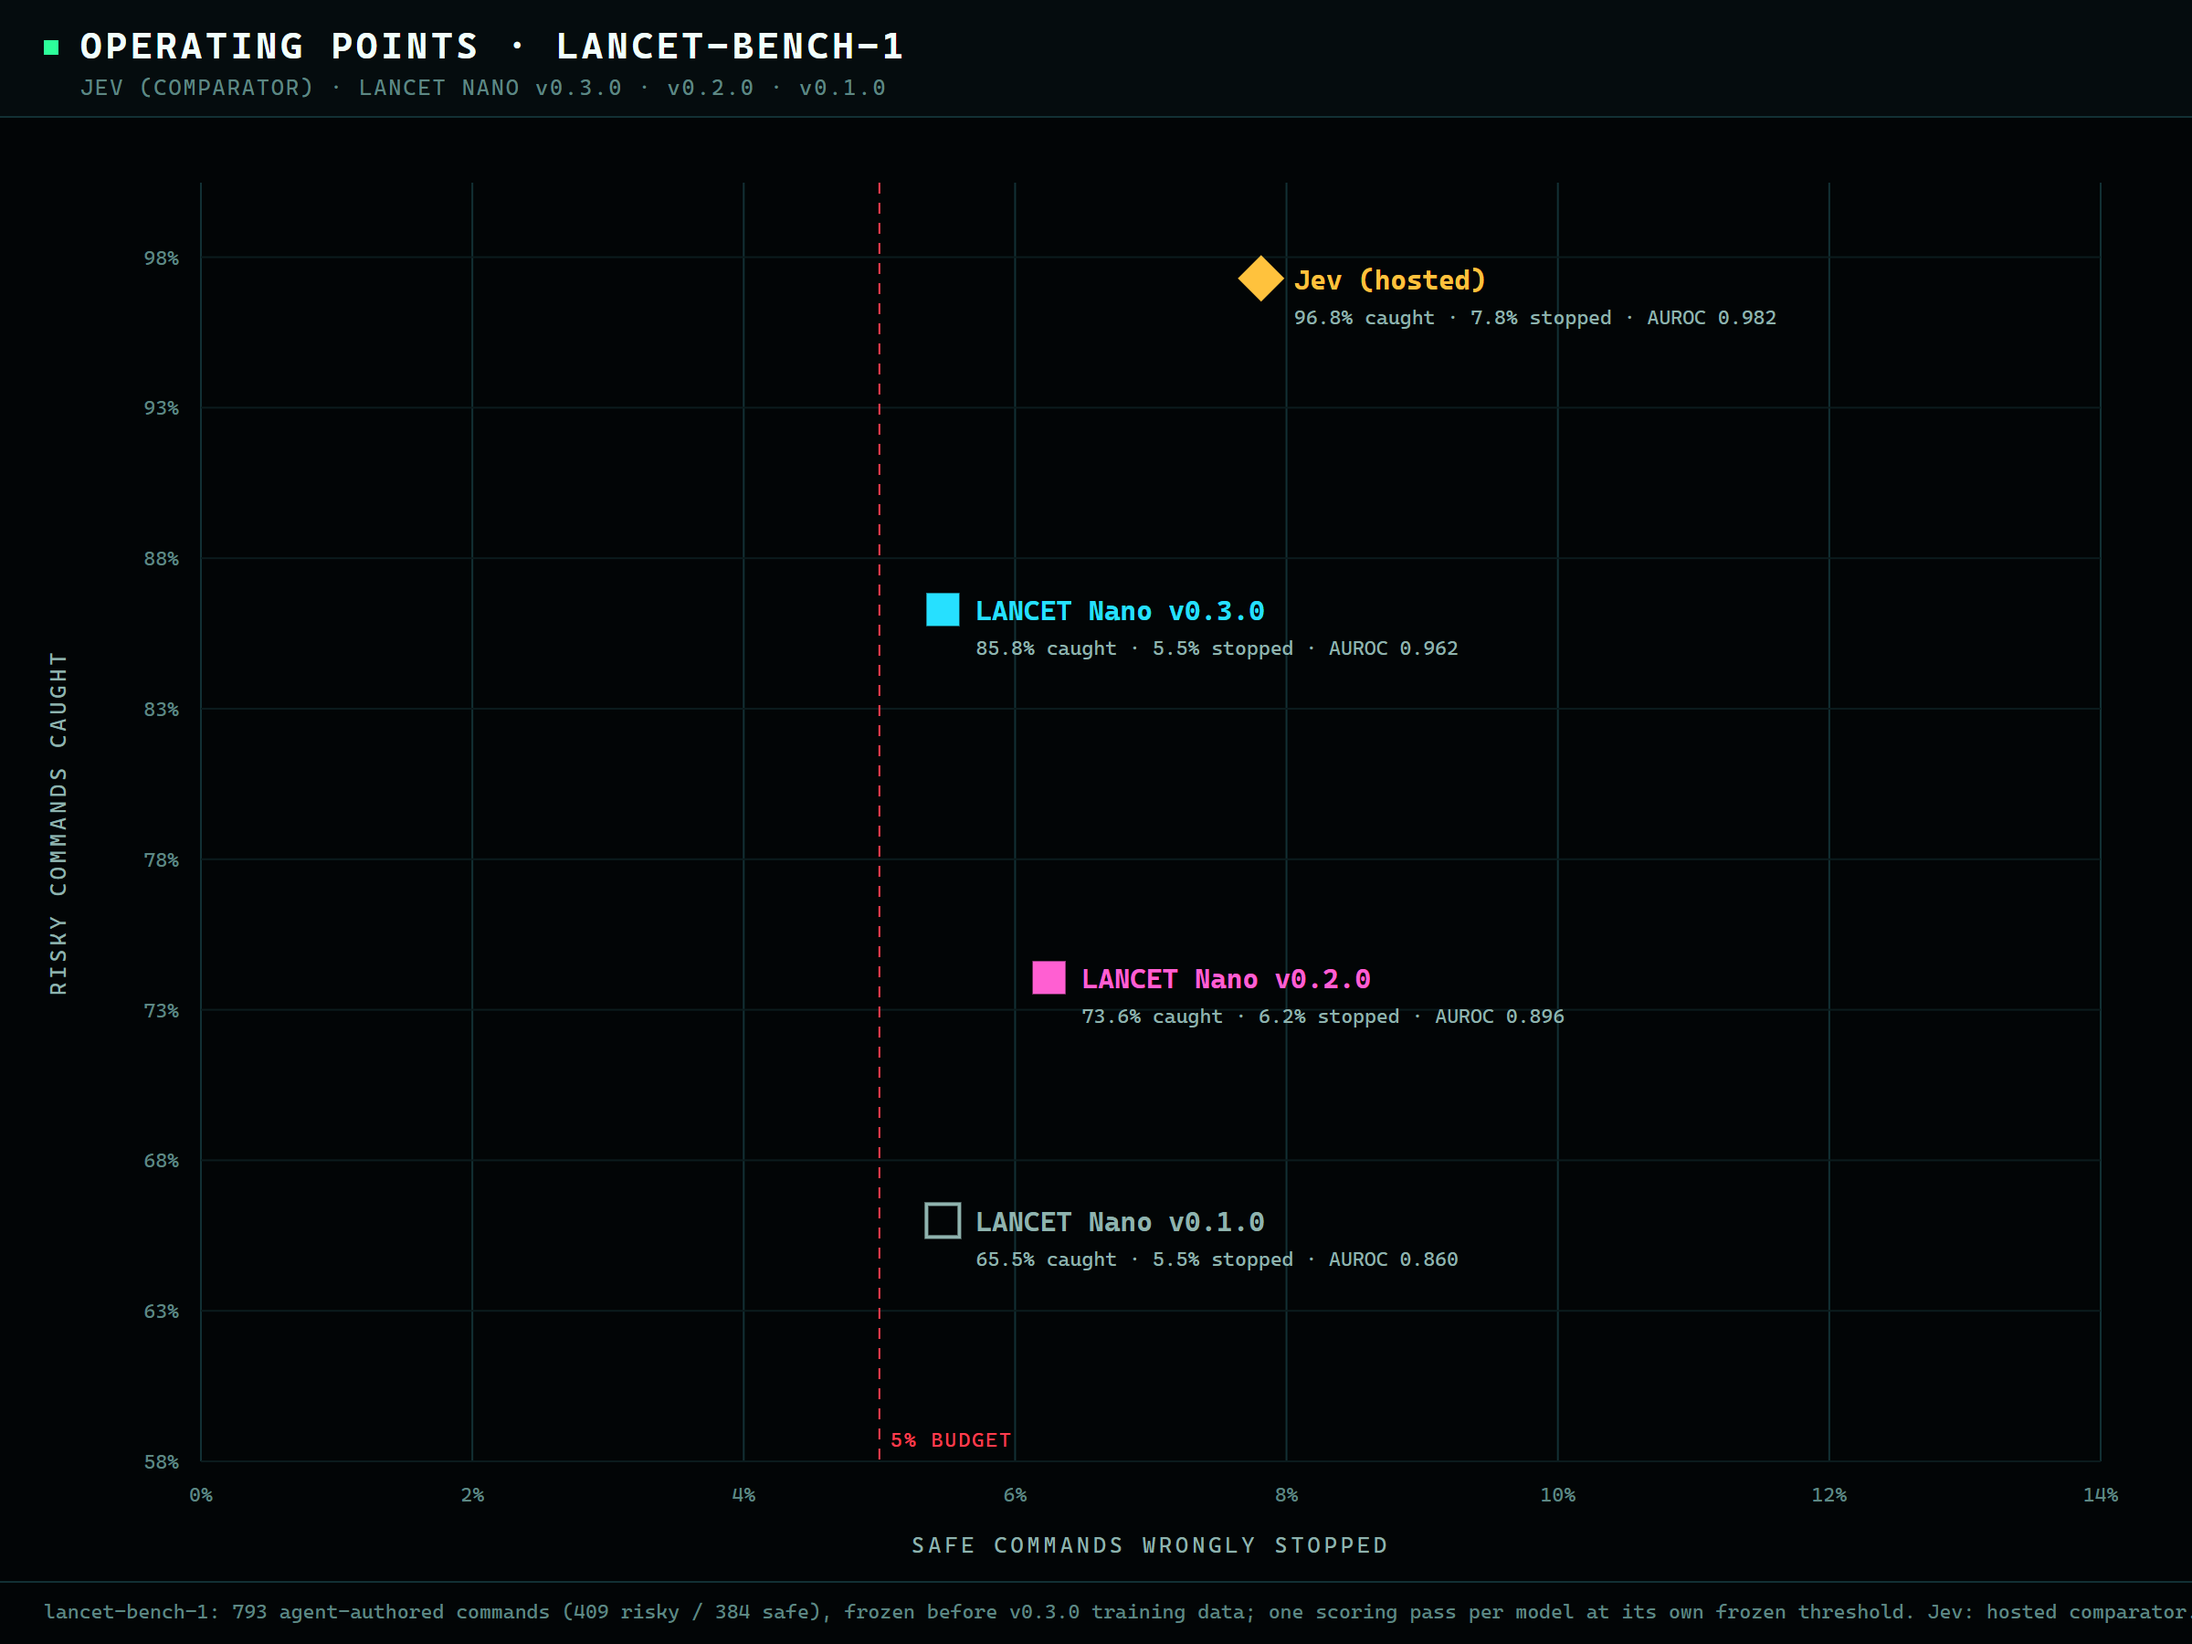
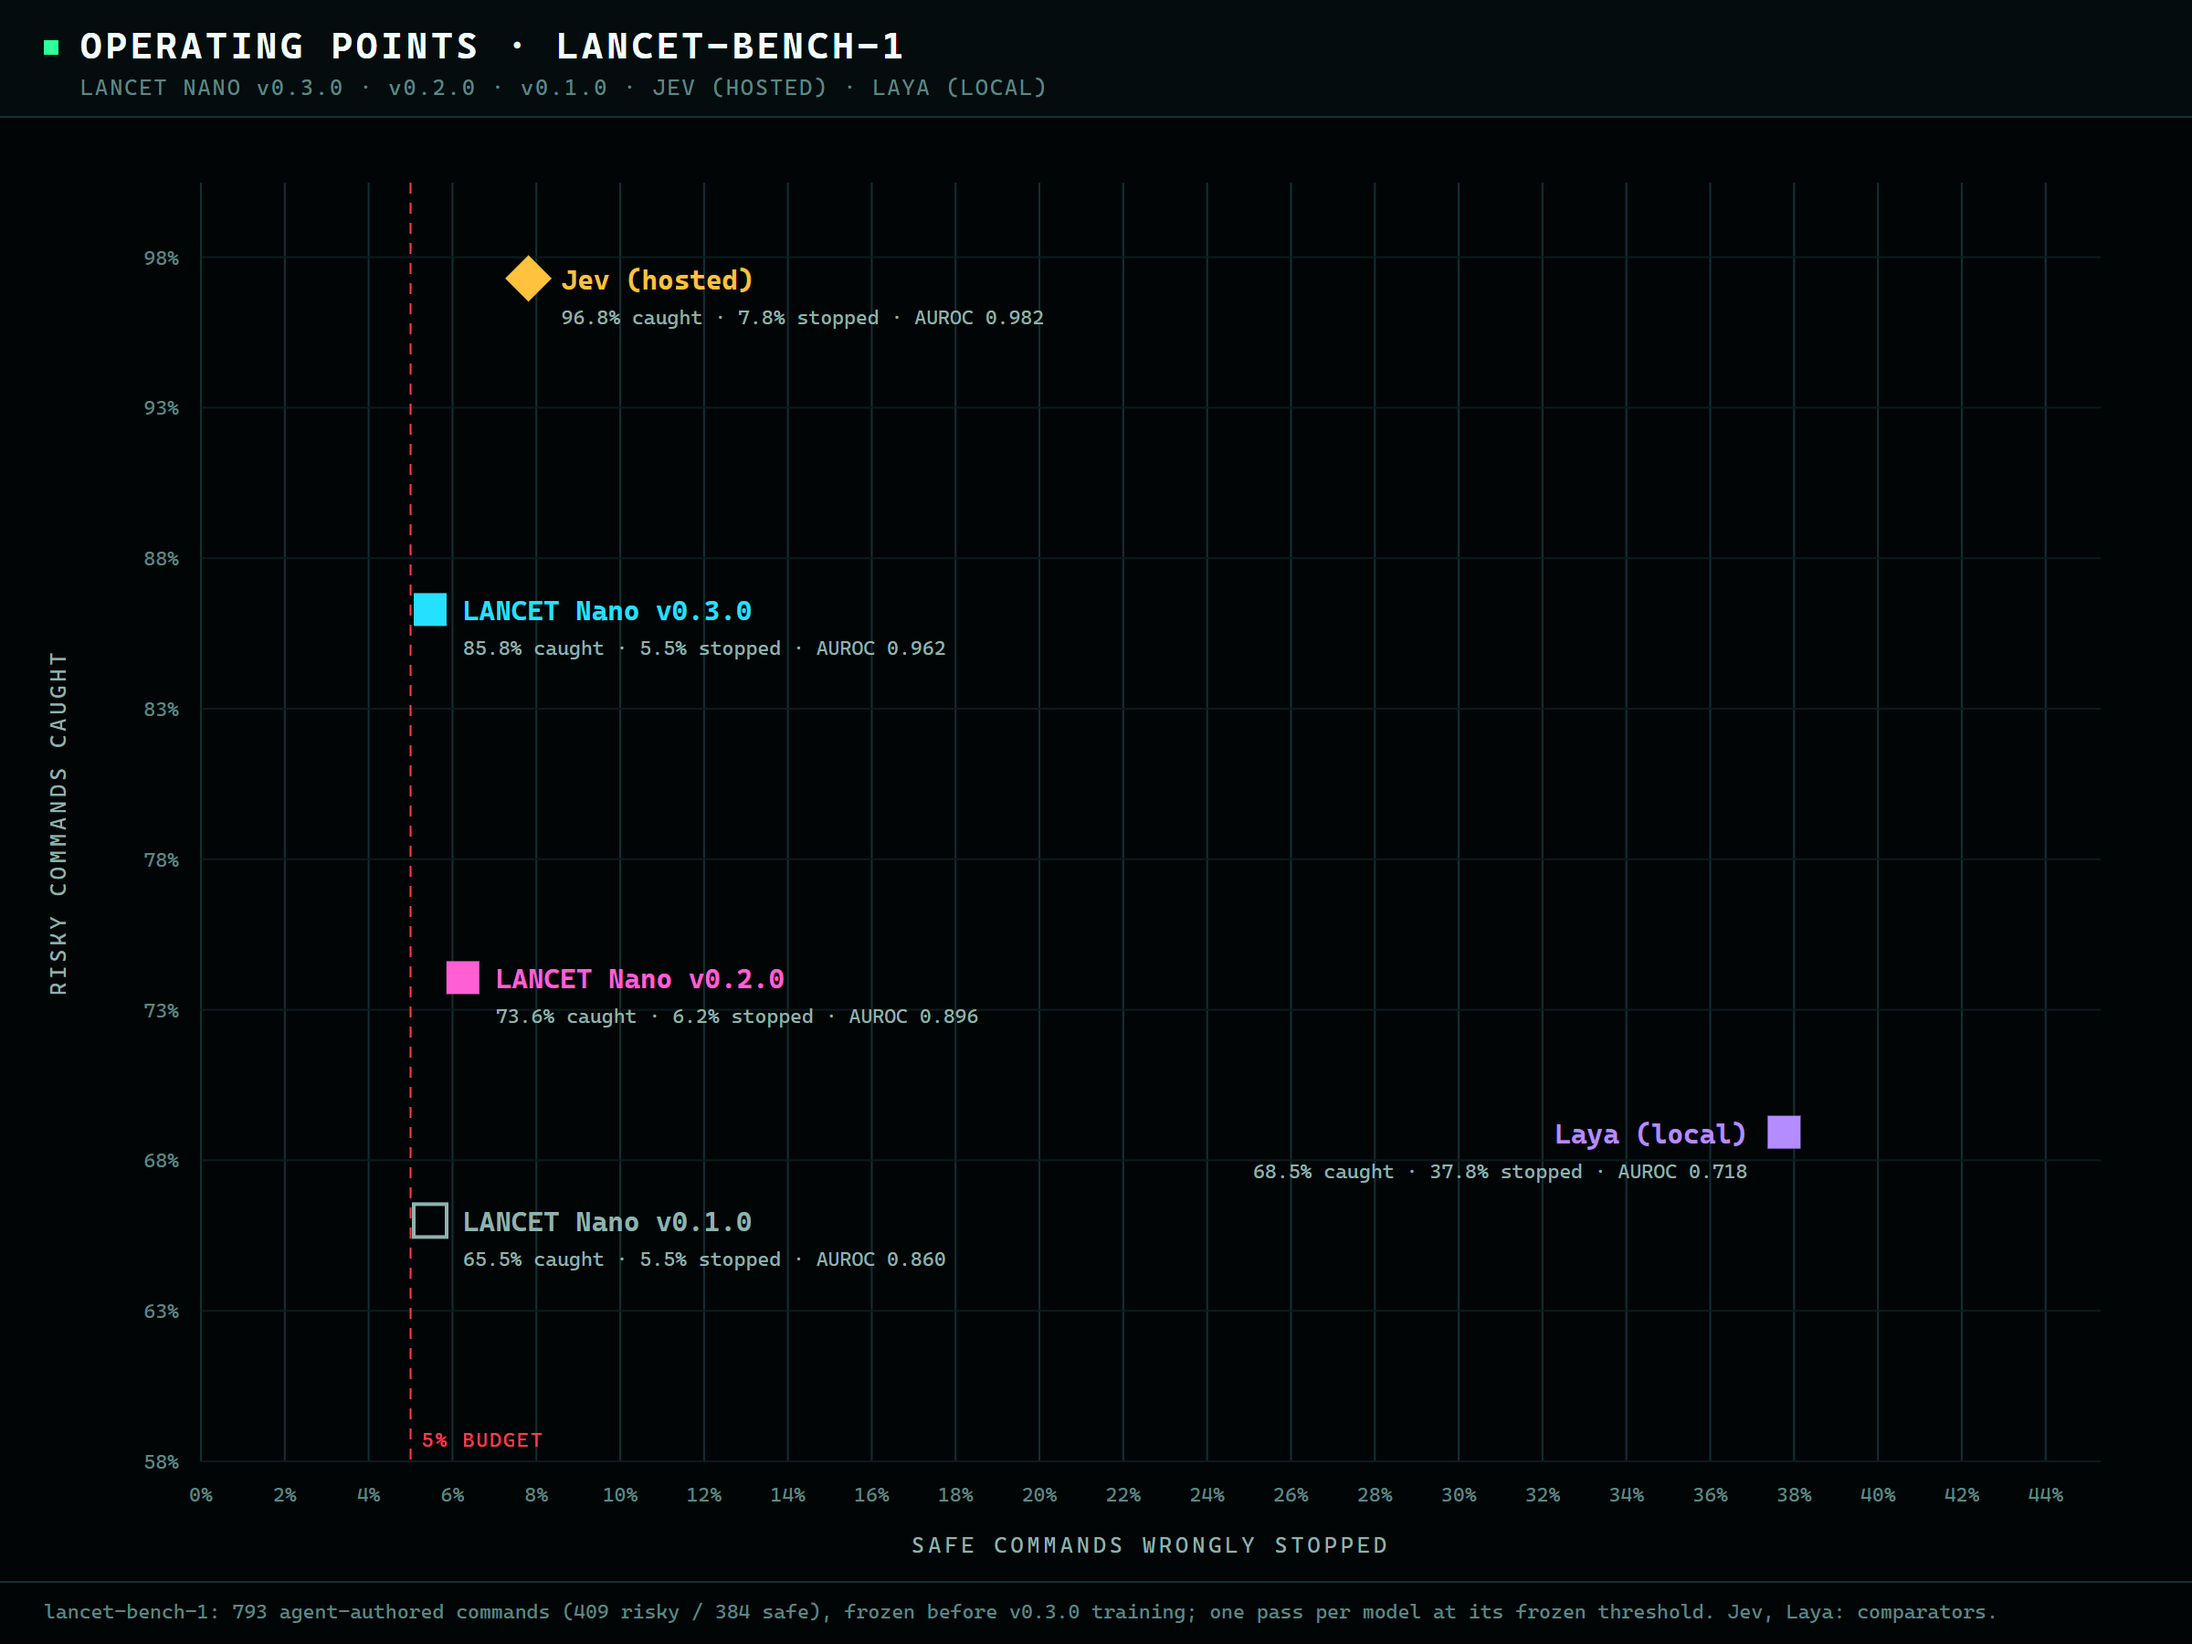
Add Laya comparison and social card
Laya (421M, local GPU) scored once on lancet-bench-1 with the same task context as Jev: 68.5% caught, 37.8% of safe commands stopped. Adds it to the charts, README and website table, and uses a 16:9 social card as the link-preview image.

diff --git a/docs/index.html b/docs/index.html
@@ -7,7 +7,9 @@
 <meta name="description" content="LANCET Nano v0.3.0: a 110M-parameter, 111 MB CPU model that flags risky Bash commands in about 22 ms, offline. Apache-2.0 model, MIT runtime.">
 <meta property="og:title" content="LANCET Nano">
 <meta property="og:description" content="A local classifier for Bash command risk. 85.8% of risky commands caught, 5.5% of safe ones stopped, on a 793-command release benchmark.">
-<meta property="og:image" content="https://tannermidd.github.io/LANCET-model/charts/bench1-operating-points.png">
+<meta property="og:image" content="https://tannermidd.github.io/LANCET-model/charts/social-card.png">
+<meta name="twitter:card" content="summary_large_image">
+<meta name="twitter:image" content="https://tannermidd.github.io/LANCET-model/charts/social-card.png">
 <style>
 :root{--bg:#050607;--panel:#0a0d0f;--line:#1b2328;--ink:#e6edf0;--dim:#7d8b92;--green:#2dff9a;--amber:#ffc23d;--violet:#b48cff;--red:#ff3d4f;--cyan:#27d3ff}
 *{box-sizing:border-box;border-radius:0}
@@ -80,7 +82,7 @@ footer{padding:28px 0 60px;color:var(--dim);font-size:12.5px}
 
 <section id="results">
   <h2>Results on the 793-command release benchmark</h2>
-  <figure class="fig"><img src="charts/bench1-operating-points.svg" alt="Risky commands caught against safe commands wrongly stopped for LANCET Nano v0.3.0, v0.2.0, v0.1.0 and Jev">
+  <figure class="fig"><img src="charts/bench1-operating-points.svg" alt="Risky commands caught against safe commands wrongly stopped for LANCET Nano v0.3.0, v0.2.0, v0.1.0, Jev and Laya">
     <figcaption>Up and to the left is better. Each model was scored once, at its own frozen threshold, on <code>lancet-bench-1</code>: 409 risky and 384 safe commands across 37 tool areas, frozen and screened against all training data before v0.3.0's training data existed.</figcaption></figure>
   <div class="two">
     <figure class="fig"><img src="charts/bench1-roc.svg" alt="ROC curves for the four models"><figcaption>How well each model separates risky from safe commands at every threshold. The circles mark the thresholds each model actually uses.</figcaption></figure>
@@ -92,9 +94,10 @@ footer{padding:28px 0 60px;color:var(--dim);font-size:12.5px}
     <tr><td>LANCET Nano v0.2.0</td><td>73.6%</td><td>6.2%</td><td>0.896</td><td>24%</td><td>35 M</td><td>CPU, local, offline</td></tr>
     <tr><td>LANCET Nano v0.1.0</td><td>65.5%</td><td>5.5%</td><td>0.860</td><td>14%</td><td>35 M</td><td>CPU, local, offline</td></tr>
     <tr><td style="color:var(--amber)">Jev (hosted)</td><td>96.8%</td><td>7.8%</td><td>0.982</td><td>98%</td><td>undisclosed</td><td>hosted API</td></tr>
+    <tr><td style="color:var(--violet)">Laya</td><td>68.5%</td><td>37.8%</td><td>0.718</td><td>48%</td><td>421 M</td><td>GPU, local</td></tr>
   </table>
   <p class="note">
-    The benchmark's labels were written by the developer, an AI agent, so this is diagnostic evidence, not independent acceptance. Jev received a fixed task context; Nano sees only the command.<br>
+    The benchmark's labels were written by the developer, an AI agent, so this is diagnostic evidence, not independent acceptance. Jev and Laya received a fixed task context; Nano sees only the command.<br>
     On the upstream ShellRisk sets (not agent-authored, never trained on), v0.3.0 caught 48.9% vs v0.2.0's 48.3% and stopped 6.3% vs 9.7% of safe commands; on the smaller holdout set it caught fewer (41.9% vs 45.9%).<br>
     v0.3.0 was released by owner exception after one overly strict preregistered check (the ShellRisk catch-rate lower bound) failed; the details are in the model card.
   </p>

diff --git a/README.md b/README.md
@@ -13,21 +13,21 @@
 
 **Model: Apache-2.0. Runtime: MIT.** You may use, modify and redistribute it, including commercially, under the respective terms. Training data is not included or relicensed.
 
-<p align="center"><img src="docs/charts/bench1-operating-points.png" alt="Risky commands caught against safe commands wrongly stopped on lancet-bench-1 for LANCET Nano v0.3.0, v0.2.0, v0.1.0 and Jev" width="100%"></p>
+<p align="center"><img src="docs/charts/bench1-operating-points.png" alt="Risky commands caught against safe commands wrongly stopped on lancet-bench-1 for LANCET Nano v0.3.0, v0.2.0, v0.1.0, Jev and Laya" width="100%"></p>
 
 ## Results on the 793-command release benchmark
 
 Each model was scored in a single pass on `lancet-bench-1`: 409 risky and 384 safe commands across 37 tool areas. The benchmark was frozen and screened against all training data before v0.3.0's training data existed.
 
-| | Nano v0.3.0 | Nano v0.2.0 | Nano v0.1.0 | Jev (hosted) |
-|---|---:|---:|---:|---:|
-| Risky caught | **85.8%** | 73.6% | 65.5% | 96.8% |
-| Safe commands wrongly stopped | **5.5%** | 6.2% | 5.5% | 7.8% |
-| Risky **secrets** commands caught (112) | **66%** | 24% | 14% | 98% |
-| Parameters | 110 M | 35 M | 35 M | undisclosed |
-| On disk | 111 MB | 36 MB | 36 MB | hosted |
+| | Nano v0.3.0 | Nano v0.2.0 | Nano v0.1.0 | Jev (hosted) | Laya (local) |
+|---|---:|---:|---:|---:|---:|
+| Risky caught | **85.8%** | 73.6% | 65.5% | 96.8% | 68.5% |
+| Safe commands wrongly stopped | **5.5%** | 6.2% | 5.5% | 7.8% | 37.8% |
+| Risky **secrets** commands caught (112) | **66%** | 24% | 14% | 98% | 48% |
+| Parameters | 110 M | 35 M | 35 M | undisclosed | 421 M |
+| Runs on | CPU | CPU | CPU | hosted API | GPU |
 
-- **Benchmark caveat:** the benchmark's labels were written by the developer, an AI agent, so this is diagnostic evidence, not independent acceptance.
+- **Benchmark caveat:** the benchmark's labels were written by the developer, an AI agent, so this is diagnostic evidence, not independent acceptance. Jev and Laya received task context; Nano sees only the command.
 - **Outside check:** on the upstream ShellRisk sets, which are not agent-authored, v0.3.0 catches about as many risky commands as v0.2.0 and stops about a third fewer safe ones. It is weaker on the smaller holdout set.
 - **Release status:** v0.3.0 was released by owner exception after one overly strict preregistered check failed. See the [model card](bundle/MODEL_CARD.md) and [More charts](https://tannermidd.github.io/LANCET-model/).
 
